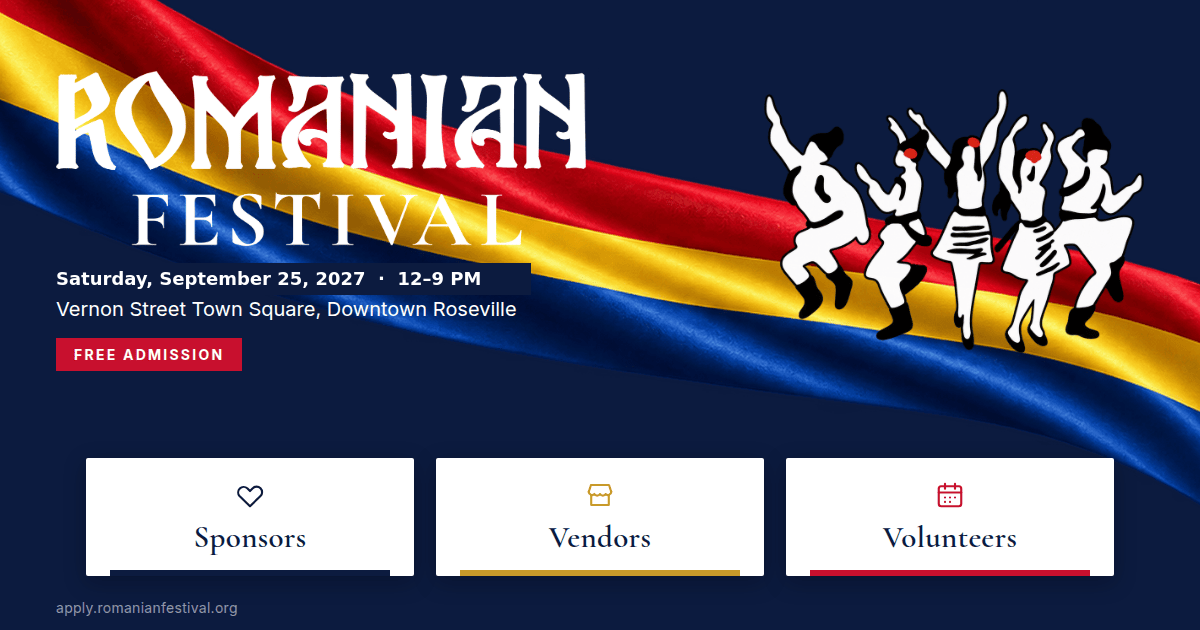
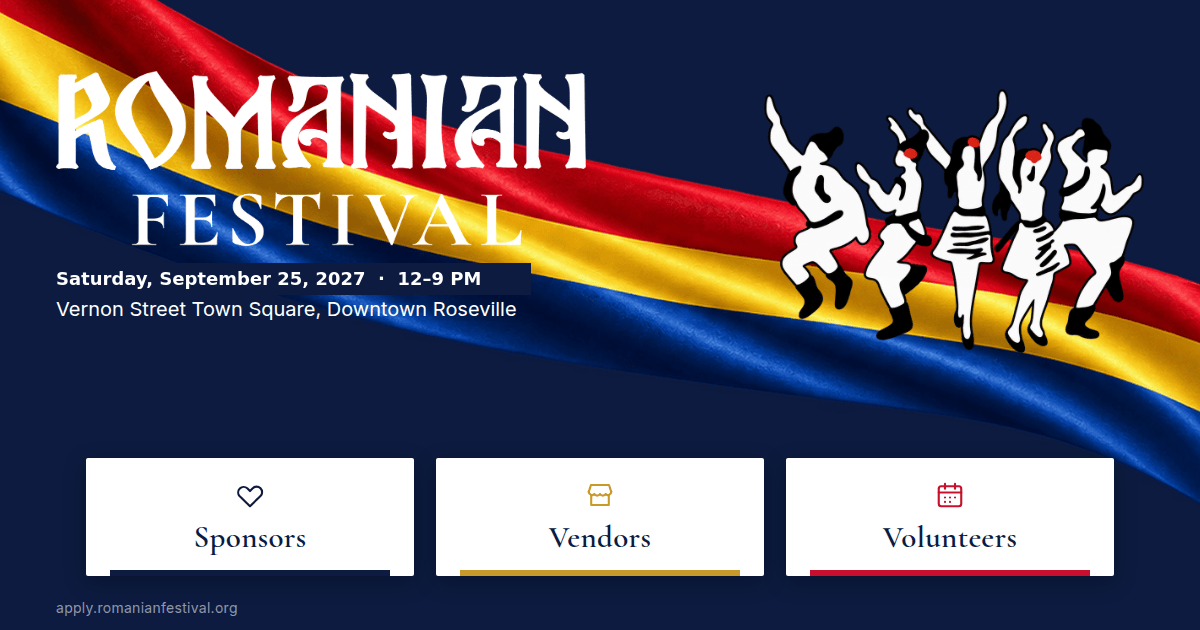
Remove free admission messaging and hide mobile guide link

Changed region(s): [[0.0308, 0.5127, 0.2158, 0.6032]]

diff --git a/artifacts/festival-app/index.html b/artifacts/festival-app/index.html
@@ -4,10 +4,10 @@
     <meta charset="UTF-8" />
     <meta name="viewport" content="width=device-width, initial-scale=1.0, maximum-scale=1" />
     <title>2027 Romanian Festival — Vendor &amp; Sponsor Applications</title>
-    <meta name="description" content="Apply to be a vendor, sponsor, or volunteer at the 2027 Romanian Festival. Saturday, September 25, 2027 at Vernon Street Town Square in Downtown Roseville, California. Free admission." />
+    <meta name="description" content="Apply to be a vendor, sponsor, or volunteer at the 2027 Romanian Festival. Saturday, September 25, 2027 at Vernon Street Town Square in Downtown Roseville, California." />
     <meta name="robots" content="index, follow" />
     <meta property="og:title" content="2027 Romanian Festival — Vendor &amp; Sponsor Applications" />
-    <meta property="og:description" content="Apply to be a vendor, sponsor, or volunteer at the 2027 Romanian Festival. Saturday, September 25, 2027 at Vernon Street Town Square in Downtown Roseville, California. Free admission." />
+    <meta property="og:description" content="Apply to be a vendor, sponsor, or volunteer at the 2027 Romanian Festival. Saturday, September 25, 2027 at Vernon Street Town Square in Downtown Roseville, California." />
     <meta property="og:image" content="https://apply.romanianfestival.org/og-image-2027.png" />
     <meta property="og:image:width" content="1200" />
     <meta property="og:image:height" content="630" />
@@ -17,7 +17,7 @@
     <meta property="og:type" content="website" />
     <meta name="twitter:card" content="summary_large_image" />
     <meta name="twitter:title" content="2027 Romanian Festival — Vendor &amp; Sponsor Applications" />
-    <meta name="twitter:description" content="Apply to be a vendor, sponsor, or volunteer at the 2027 Romanian Festival. Saturday, September 25, 2027 at Vernon Street Town Square in Downtown Roseville, California. Free admission." />
+    <meta name="twitter:description" content="Apply to be a vendor, sponsor, or volunteer at the 2027 Romanian Festival. Saturday, September 25, 2027 at Vernon Street Town Square in Downtown Roseville, California." />
     <meta name="twitter:image" content="https://apply.romanianfestival.org/og-image-2027.png" />
     <link rel="icon" href="/favicon.ico" sizes="any">
     <link rel="icon" type="image/png" sizes="32x32" href="/favicon-32.png">

diff --git a/artifacts/festival-app/src/components/guide-links.tsx b/artifacts/festival-app/src/components/guide-links.tsx
@@ -1,5 +1,8 @@
 import { FileText } from "lucide-react"
 
+// Restore once the 2027 mobile guide is available.
+const SHOW_MOBILE_GUIDE = false
+
 export function GuideLinks() {
   return (
     <div className="mb-10">
@@ -23,7 +26,7 @@ export function GuideLinks() {
             </span>
           </span>
         </a>
-        <a
+        {SHOW_MOBILE_GUIDE && <a
           href="/2026-romanian-festival-guide-mobile.pdf"
           target="_blank"
           rel="noopener"
@@ -38,7 +41,7 @@ export function GuideLinks() {
               7 pages · designed for phones
             </span>
           </span>
-        </a>
+        </a>}
       </div>
     </div>
   )

diff --git a/artifacts/festival-app/src/App.tsx b/artifacts/festival-app/src/App.tsx
@@ -208,7 +208,7 @@ function LandingPage() {
 
               {/* Date, time, location */}
               <div className="mb-6 text-white/80 text-sm md:text-base leading-relaxed space-y-1">
-                <p>Saturday, September 25, 2027 · 12:00 PM – 9:00 PM · Free Admission</p>
+                <p>Saturday, September 25, 2027 · 12:00 PM – 9:00 PM</p>
                 <p>Vernon Street Town Square, Downtown Roseville, CA</p>
               </div>
 

diff --git a/.agents/memory/annual-festival-rollover.md b/.agents/memory/annual-festival-rollover.md
@@ -8,3 +8,9 @@ Create a separate active festival year rather than changing the year or event da
 **Why:** The user explicitly chose activating 2027 while preserving 2026 records. The user then explicitly confirmed the guide information is otherwise unchanged and asked to leave its links up while they change the dates later.
 
 **How to apply:** For future rollovers, configure the new year's event date independently and leave unspecified deadlines unset. Do not remove the existing guide links merely because the year changes; let the user control when to replace those files. Verify the active year separately in development and the published app, as publishing code does not copy development data to production.
+
+**Mobile guide exception:** The user confirmed that the 2027 mobile guide does not exist yet and asked to hide only its link while retaining the component and desktop guide link.
+
+**Why:** The unavailable mobile guide must not be offered to visitors; the desktop guide should remain accessible.
+
+**How to apply:** Restore the mobile link only when its replacement file is available, not merely because the desktop guide or festival year changes.
